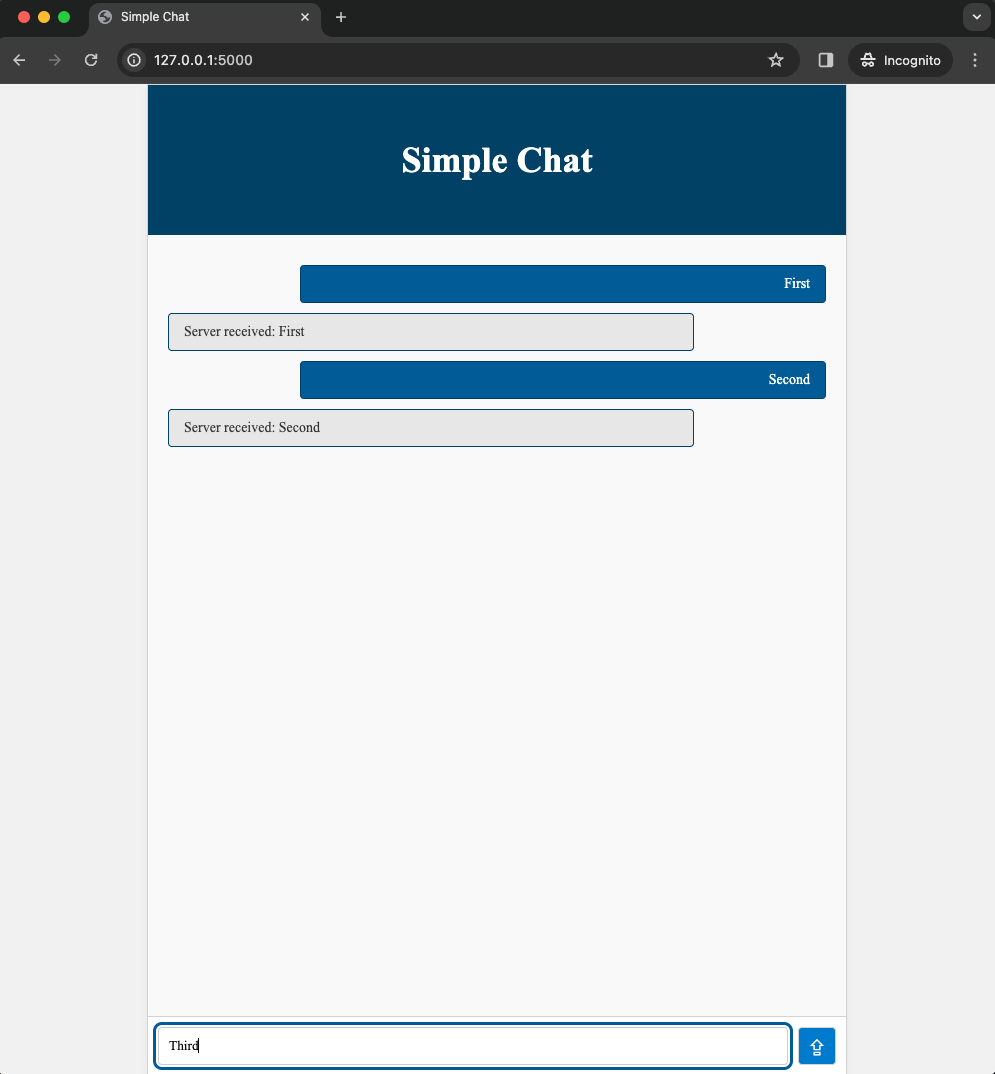
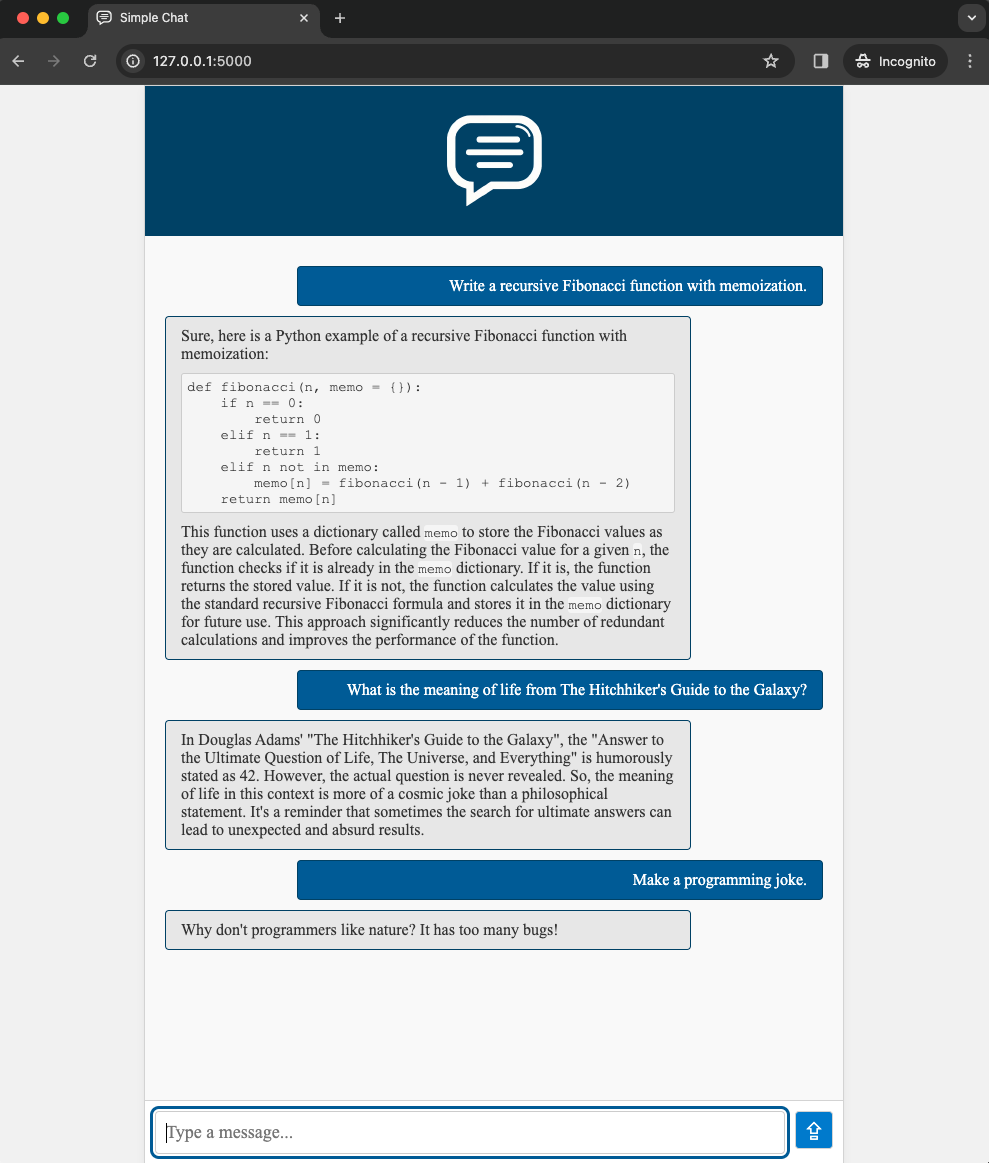
Added agents

Changed region(s): [[0.0, 0.0307, 1.0, 0.8296], [0.1517, 0.9525, 0.8493, 1.0], [0.091, 0.0, 0.1213, 0.0307]]

diff --git a/static/style.css b/static/style.css
@@ -70,6 +70,32 @@ body, html {
     border: 1px solid #004165;
 }
 
+.server-response code {
+    background-color: #f5f5f5;
+    border-radius: 3px;
+    font-size: 14px;
+    color: #333;
+    font-family: 'Courier New', Courier, monospace;
+    white-space: pre-wrap;
+    word-break: break-word;
+    box-shadow: none;
+    overflow-x: auto;
+}
+
+.server-response code[class^="language-"] {
+    margin-top: 10px;
+    margin-bottom: 10px;
+    display: block;
+    padding: 5px;
+    border: 1px solid #ccc;
+}
+
+.server-response ul, .server-response ol {
+    margin-top: 10px;
+    margin-bottom: 10px;
+    padding-left: 20px;
+}
+
 /* Message Input */
 .message-input {
     padding: 10px;

diff --git a/static/script.js b/static/script.js
@@ -49,10 +49,10 @@ function sendMessage() {
 
 function appendMessage(text, className) {
     const chatBox = document.getElementById("chatBox");
-    const messageElement = document.createElement("p");
-    messageElement.textContent = text;
+    const messageElement = document.createElement("div");
+    const html = marked.parse(text); // Convert markdown to HTML
+    messageElement.innerHTML = html;
     messageElement.className = className;
     chatBox.appendChild(messageElement);
-
     chatBox.scrollTop = chatBox.scrollHeight; // Scroll to the latest message
 }

diff --git a/templates/index.html b/templates/index.html
@@ -22,6 +22,7 @@
             </div>
         </div>
     </div>
+    <script src="https://cdn.jsdelivr.net/npm/marked/marked.min.js"></script>
     <script src="{{ url_for('static', filename='script.js') }}"></script>
 </body>
 </html>

diff --git a/agents/llm_agent.py b/agents/llm_agent.py
@@ -1,0 +1,63 @@
+import os
+from openai import OpenAI
+from .base_agent import BaseAgent
+
+class Agent(BaseAgent):
+    """
+    This class represents an agent that interacts with the any LLM compatible with OpenAI API. Tested with OpenAI and Together AI.
+    Set the following environment variables:
+    - LLM_API_KEY: The API key for accessing the OpenAI API or Together AI.
+    - LLM_BASE_URL: The base URL for the OpenAI API or Together AI. 'https://api.together.xyz/v1' for Together AI and 'https://api.openai.com/v1' for OpenAI.
+    - LLM_MODEL: The name or ID of the chat model to use. Check https://docs.together.ai/docs/inference-models or https://platform.openai.com/docs/api-reference/models/list.
+                 For example, "gpt-3.5-turbo", 'mistralai/Mistral-7B-Instruct-v0.1', 'mistralai/Mixtral-8x7B-Instruct-v0.1', 'meta-llama/Llama-2-70b-chat-hf', ...
+    - LLM_TEMPERATURE: The temperature parameter for generating responses.
+    - LLM_MAX_TOKENS: The maximum number of tokens in the generated response.
+    - LLM_TOP_P: The top-p parameter for generating responses.
+    - LLM_SYSTEM_MESSAGE: The system message to be included in the chat. This are instructions for the AI to follow.
+    """
+
+    def __init__(self):
+        """
+        Initializes the Agent object.
+
+        Parameters:
+        - api_key (str): The API key for accessing the OpenAI API.
+        - model (str): The name or ID of the chat model to use. For example, "gpt-3.5-turbo".
+        - temperature (float): The temperature parameter for generating responses.
+        - max_tokens (int): The maximum number of tokens in the generated response.
+        - top_p (float): The top-p parameter for generating responses.
+        - system_message (str): The system message to be included in the chat.
+        - base_url (str): The base URL for the OpenAI API.
+        """
+        self.api_key = os.environ.get('LLM_API_KEY', '')
+        self.base_url = os.environ.get('LLM_BASE_URL', 'https://api.together.xyz/v1')
+        self.model = os.environ.get('LLM_MODEL', 'mistralai/Mistral-7B-Instruct-v0.1')        
+        self.temperature = float(os.environ.get('LLM_TEMPERATURE', 0.7))
+        self.max_tokens = int(os.environ.get('LLM_MAX_TOKENS', 512))
+        self.top_p = float(os.environ.get('LLM_TOP_P', 0.7))
+        self.system_message = os.environ.get('LLL_SYSTEM_MESSAGE', 'You are a helpful assistant.')
+        self.client = OpenAI(api_key=self.api_key, base_url=self.base_url)
+        
+    def respond(self, message):
+        try:
+            chat_completion = self.client.chat.completions.create(
+                model=self.model, 
+                temperature=self.temperature, 
+                max_tokens=self.max_tokens, 
+                top_p=self.top_p, 
+                messages=[
+                    {
+                        "role": "system",
+                        "content": self.system_message
+                    },
+                    {
+                        "role": "user",
+                        "content": message
+                    },
+                ]
+            )
+            response = chat_completion.choices[0].message.content
+            return response
+        except Exception as e:
+            print(f"An error occurred: {e}")
+            return e.__str__()

diff --git a/test.py b/test.py
@@ -7,6 +7,7 @@ from selenium.webdriver.support.ui import WebDriverWait
 from selenium.webdriver.support import expected_conditions as EC
 from selenium.webdriver.common.by import By
 from selenium.common.exceptions import TimeoutException
+from agent_loader import load_agent
 from app import app
 
 
@@ -20,7 +21,17 @@ class TestApp(unittest.TestCase):
         # Start Flask app in a separate process
         cls.process = Process(target=run_app)
         cls.process.start()
-        cls.driver = webdriver.Chrome() 
+        cls.driver = webdriver.Chrome()
+
+    def test_default_echo__agent(self):
+        # test defult Echo agent is used
+        from agents.echo_agent import Agent
+        self.assertEqual(app.simple_chat_agent.__class__, Agent)
+
+    def test_load_agent_import_error(self):
+        config = {'agent_name': 'Test', 'logging_enabled': False}
+        with self.assertRaises(ImportError):
+            load_agent(config)
 
     def test_chat_post(self):
         self.driver.get('http://127.0.0.1:5000')
@@ -46,13 +57,13 @@ class TestApp(unittest.TestCase):
         message_input.send_keys(test_message)
         message_input.send_keys(Keys.RETURN)
 
-        # a new p in #chatBox should appear with a class "message" and the text from test_message
+        # a new div in #chatBox should appear with a class "message" and the text from test_message
         try:
             WebDriverWait(self.driver, 10).until(
-               EC.presence_of_element_located((By.XPATH, f"//div[@id='chatBox']//p[contains(@class, 'message') and contains(text(), '{test_message}')]"))
+               EC.presence_of_element_located((By.XPATH, f"//div[@id='chatBox']//div[contains(@class, 'user-message')]//p[contains(text(), '{test_message}')]"))
             )
         except TimeoutException:
-            self.fail("There is no message!")
+            self.fail("There is no user message!")
 
         # Check if the spinner gif is visible
         self.assertTrue(spinner.is_displayed())
@@ -68,19 +79,20 @@ class TestApp(unittest.TestCase):
         except TimeoutException:
             self.fail("Spinner took too much time to disappear!")
         
-        # a new p in #chatOuptut with a class "server-response" should appear
+        # a new div in #chatOuptut with a class "server-response" should appear
         try:
             WebDriverWait(self.driver, 10).until(
-                EC.presence_of_element_located((By.XPATH, f"//div[@id='chatBox']//p[contains(@class, 'server-response') and contains(text(), '{test_message}')]"))
+                EC.presence_of_element_located((By.XPATH, f"//div[@id='chatBox']//div[contains(@class, 'server-response')]//p[contains(text(), '{test_message}')]"))
             )
         except TimeoutException:
             self.fail("Loading took too much time!")
-
+        
     @classmethod
     def tearDownClass(cls):
         cls.driver.quit()  # Close the browser
         cls.process.terminate()  # Terminate Flask app process
         cls.process.join()
+
 
 if __name__ == "__main__":
     unittest.main()

diff --git a/app.py b/app.py
@@ -1,7 +1,14 @@
-import time, os
+import logging
 from flask import Flask, request, jsonify, render_template
+from config_loader import load_configuration  # Import the configuration loader
+from agent_loader import load_agent  # Import the agent loader
+
+# Logging configuration
+logging.basicConfig(level=logging.INFO, format='%(asctime)s - %(message)s')
 
 app = Flask(__name__)
+app.simple_chat_config = load_configuration()  # Load configuration
+app.simple_chat_agent = load_agent(app.simple_chat_config)  # Load agent
 
 @app.route('/')
 def index():
@@ -10,16 +17,14 @@ def index():
 @app.route('/chat', methods=['POST'])
 def chat():
     message = request.json.get('message')
-    response = get_response(message)
+    if app.simple_chat_config['logging_enabled']:
+        logging.info(f"Received message: {message}")
+
+    response = app.simple_chat_agent.respond(message)
+    if app.simple_chat_config['logging_enabled']:
+        logging.info(f"Responded with: {response}")
+
     return jsonify({"response": response})
 
-
-def get_response(message):
-    time.sleep(1)  # make it look like the server is doing something
-    response = f"Server received: {message}" # just echo the message back
-    return response
-
 if __name__ == '__main__':
-    # Bind to PORT if defined, otherwise default to 5000.
-    port = int(os.environ.get('PORT', 5000))
-    app.run(host='127.0.0.1', port=port)
+    app.run(host='127.0.0.1', port=app.simple_chat_config['port'], debug=app.simple_chat_config['debug'])

diff --git a/agent_loader.py b/agent_loader.py
@@ -1,0 +1,15 @@
+import logging
+
+def load_agent(config):
+    try:
+        module_name = config['agent_name'].lower() + "_agent"
+        class_name = 'Agent'
+        module = __import__(f"agents.{module_name}", fromlist=[class_name])
+        agent = getattr(module, class_name)()
+        if config['logging_enabled']:
+            logging.info(f"Loaded agent {config['agent_name']}")
+        return agent
+    except (ImportError, AttributeError) as e:
+        if config['logging_enabled']:
+            logging.error(f"Error loading agent {config['agent_name']}: {e}")
+        raise

diff --git a/config_loader.py b/config_loader.py
@@ -1,0 +1,10 @@
+import os
+
+def load_configuration():
+    config = {
+        'debug': os.environ.get('SIMPLE_CHAT_DEBUG', 'False').lower() == 'true',
+        'port': int(os.environ.get('SIMPLE_CHAT_PORT', 5000)),
+        'agent_name': os.environ.get('SIMPLE_CHAT_AGENT', 'echo'),  # Default to Echo agent
+        'logging_enabled': os.environ.get('SIMPLE_CHAT_LOGGING', 'False').lower() == 'true'
+    }
+    return config

diff --git a/agents/echo_agent.py b/agents/echo_agent.py
@@ -1,0 +1,9 @@
+from .base_agent import BaseAgent
+import time
+
+
+class Agent(BaseAgent):
+    def respond(self, message):
+        # Returns the received message prefixed with 'Server received: '
+        time.sleep(0.5)  # Simulate a response time
+        return f"Server received: {message}"

diff --git a/agents/base_agent.py b/agents/base_agent.py
@@ -1,0 +1,3 @@
+class BaseAgent:
+    def respond(self, message):
+        raise NotImplementedError("Respond method must be implemented by subclasses.")

diff --git a/README.md b/README.md
@@ -5,6 +5,8 @@
 This Simple Chat is designed as a straightforward, real-time chat interface using Flask for the backend and basic HTML/CSS/JavaScript for the frontend. It's created as a response to more complex solutions, offering a simple, effective baseline for building chat bots and Retrieval-Augmented Generation (RAG) systems. Its simplicity makes it an ideal starting point for customizations and further developments in chatbot technology.
 
 ![Simple Chat](simple_chat.png)
+Example with the Mixtral LLM backend.
+
 
 ## Installation
 To set up this project on your local machine, follow these steps:
@@ -34,6 +36,24 @@ After starting the server, navigate to `http://127.0.0.1:5000` in your web brows
 1. Type your message in the input box.
 2. Press Enter or click the Send button to send the message.
 3. View the response from the server in the chat interface.
+
+## Chat Agents
+By default, the `echo` agent is loaded which just repeats the message from the client. It also has a sample code as an example to create different agents.
+
+### LLM agent
+This agent talks to a cloud LLM (like ChatGPT) and sends replies to users. There is no chat history support. It works with OpenAI and other platforms that are compatible with OpenAI's API, like Together AI. Find all paremeters in [llm_agent.py](agents/llm_agent.py).
+
+To use Mixtral model from Together AI, set up these enviroment variables:
+```bash
+export SIMPLE_CHAT_AGENT=llm
+export LLM_API_KEY=<your Together AI>
+export LLM_MODEL=mistralai/Mixtral-8x7B-Instruct-v0.1
+```
+
+To use OpenAI, also set
+```bash
+export LLM_BASE_URL=https://api.openai.com/v1
+```
 
 
 ## Testing
